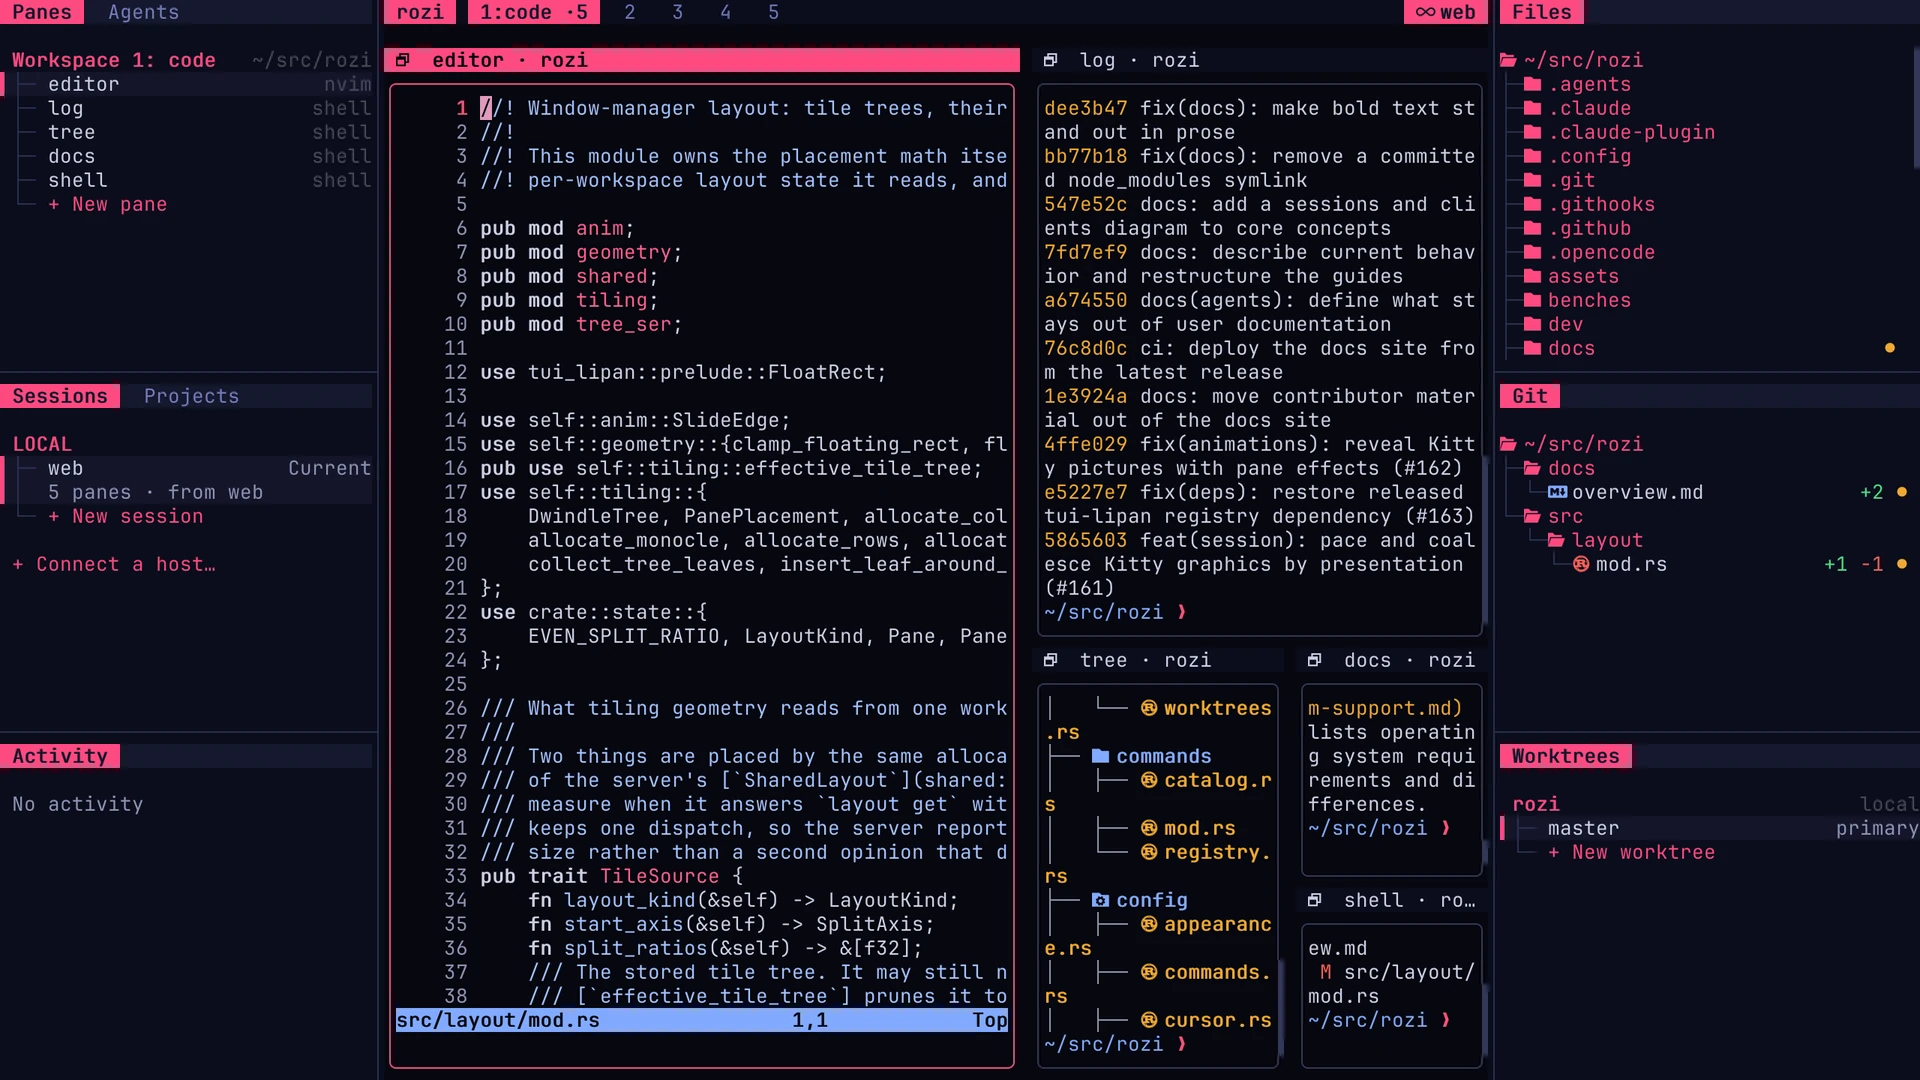
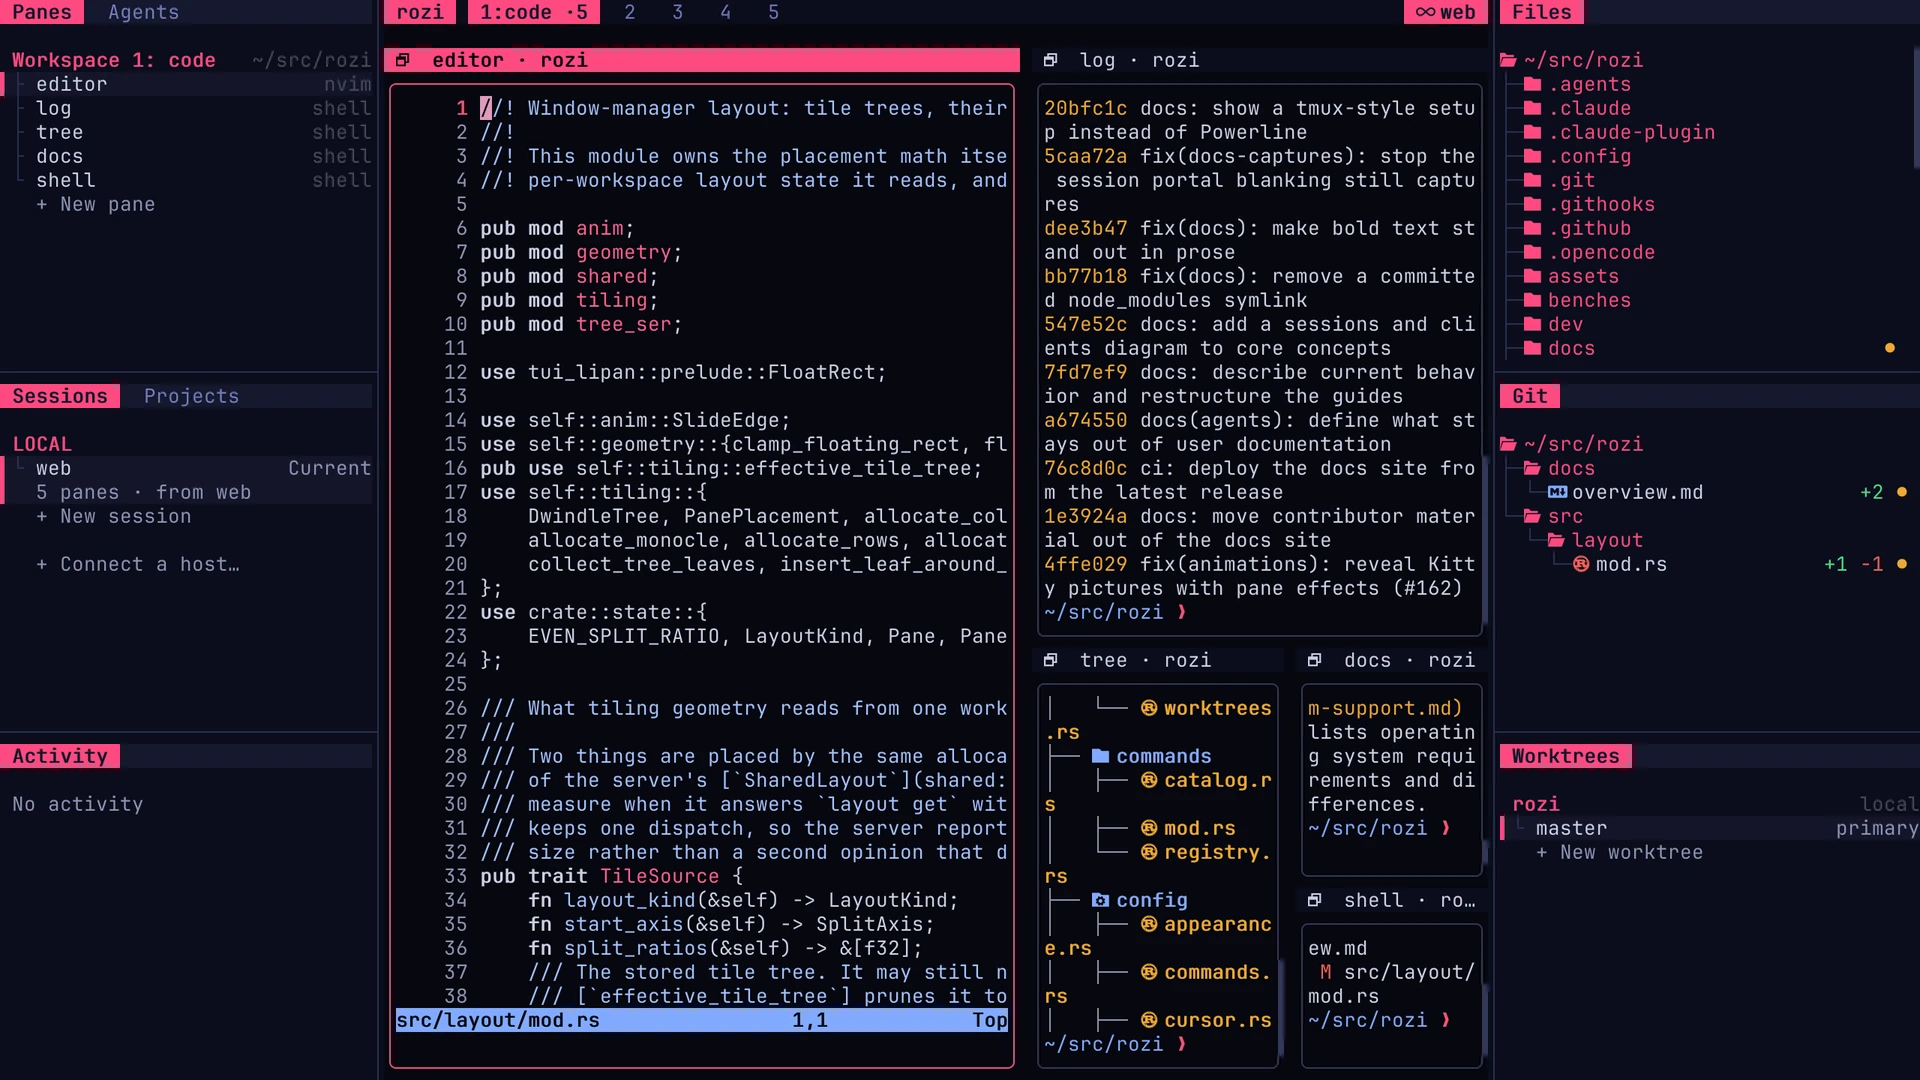
feat(sidebar): compact tree branches and muted action rows
A leaf's branch meets its label directly, `├ editor` rather than
`├─ editor`, except at or just beneath a depth where a row folds, where
leaves keep the arrow column so labels line up and a fold's children
read a level deeper.

New pane, New session, New worktree, and Connect a host now share one
action row: muted, with its `+` in the label column, after its group's
tree rather than in it, so the group's `└` closes on its last real row
and the action no longer competes with the headings.

diff --git a/tests/suites/sidebar/sidebar_sessions_smoke.rs b/tests/suites/sidebar/sidebar_sessions_smoke.rs
@@ -147,14 +147,14 @@ fn sessions_sidebar_renders_group_and_child_hierarchy() {
 
             // Each host is a heading, and its sessions hang from it.
             assert!(lines[row("LOCAL")].starts_with(" LOCAL"));
-            assert!(lines[row("▍├─ dev")].starts_with("▍├─ dev"));
-            assert!(lines[row("▍├─ dev")].contains(" 2"));
-            assert!(lines[row("▍├─ dev")].contains("Current"));
-            assert!(lines[row("2 panes")].starts_with("▍│  2 panes"));
+            assert!(lines[row("▍├ dev")].starts_with("▍├ dev"));
+            assert!(lines[row("▍├ dev")].contains(" 2"));
+            assert!(lines[row("▍├ dev")].contains("Current"));
+            assert!(lines[row("2 panes")].starts_with("▍│ 2 panes"));
             assert!(!lines[row("2 panes")].contains("shared"));
-            assert!(lines[row("test")].starts_with(" ├─ test"));
+            assert!(lines[row("test")].starts_with(" └ test"));
             assert!(lines[row("test")].contains("Running"));
-            assert!(lines[row("3 panes")].starts_with(" │  3 panes"));
+            assert!(lines[row("3 panes")].starts_with("   3 panes"));
 
             let new_session_rows: Vec<_> = lines
                 .iter()
@@ -164,7 +164,7 @@ fn sessions_sidebar_renders_group_and_child_hierarchy() {
             assert!(
                 new_session_rows
                     .iter()
-                    .all(|line| line.starts_with(" └─ + New session"))
+                    .all(|line| line.starts_with("   + New session"))
             );
 
             // A connected host is one line: the badge says it is connected, and disconnecting is
@@ -176,17 +176,17 @@ fn sessions_sidebar_renders_group_and_child_hierarchy() {
                 "no second line under a connected host: {:?}",
                 lines[linvm + 1]
             );
-            assert!(lines[linvm + 1].starts_with(" ├─ dev"));
-            assert!(lines[linvm + 2].starts_with(" │  4 panes"));
+            assert!(lines[linvm + 1].starts_with(" └ dev"));
+            assert!(lines[linvm + 2].starts_with("   4 panes"));
 
             // An offline host with nothing to explain spends its free second line on the standing
             // invitation, rather than hiding it under the pointer.
             let winvm = row("WINVM");
             assert!(lines[winvm].starts_with(" WINVM"));
             assert!(lines[winvm + 1].starts_with(" Click to connect"));
-            assert!(lines[winvm + 2].starts_with(" └─ dev"));
-            assert!(lines[winvm + 3].starts_with("    2 panes · last seen"));
-            assert!(lines[row("+ Connect a host")].starts_with(" + Connect a host"));
+            assert!(lines[winvm + 2].starts_with(" └ dev"));
+            assert!(lines[winvm + 3].starts_with("   2 panes · last seen"));
+            assert!(lines[row("+ Connect a host")].starts_with("   + Connect a host"));
 
             let accent = backend
                 .state()
@@ -206,8 +206,10 @@ fn sessions_sidebar_renders_group_and_child_hierarchy() {
             // The cached session under an offline host, and its detail: both muted, so a memory of
             // a session never reads like a live one.
             assert_eq!(frame.cell(1, (winvm + 1) as u16).fg, muted);
-            assert_eq!(frame.cell(4, (winvm + 2) as u16).fg, muted);
-            assert_eq!(frame.cell(4, (winvm + 3) as u16).fg, muted);
+            assert_eq!(frame.cell(3, (winvm + 2) as u16).fg, muted);
+            assert_eq!(frame.cell(3, (winvm + 3) as u16).fg, muted);
+            // Actions follow their group's tree in the label column, muted beside the headings.
+            assert_eq!(frame.cell(3, row("+ Connect a host") as u16).fg, muted);
         })
         .expect("spawn Sessions sidebar smoke thread")
         .join()
@@ -249,7 +251,7 @@ fn sessions_sidebar_omits_nerd_glyphs_when_nerd_icons_are_off() {
                 .collect();
             let row = lines
                 .iter()
-                .position(|line| line.contains("▍├─ dev"))
+                .position(|line| line.contains("▍└ dev"))
                 .unwrap_or_else(|| panic!("current session should be visible: {lines:#?}"));
             assert!(
                 lines[row].contains("⋈ 2"),

diff --git a/src/view/sidebar/tree_rows.rs b/src/view/sidebar/tree_rows.rs
@@ -190,7 +190,12 @@ pub(super) fn tab(
             )
         })
         .collect::<Vec<_>>();
-    let mut tree = Tree::forest(nested_nodes(&nodes, &mut 0, 0))
+    let folding: Vec<usize> = nodes
+        .iter()
+        .filter(|(_, shape, _)| matches!(shape, Shape::Collapsible { .. }))
+        .map(|(depth, _, _)| *depth)
+        .collect();
+    let mut tree = Tree::forest(nested_nodes(&nodes, &mut 0, 0, &folding))
         .controlled_expansion(true)
         .toggle_on_activate(false)
         .indent_style(IndentStyle::Branch)
@@ -261,7 +266,7 @@ fn node(
     selected: bool,
     index: usize,
     row: SidebarRow,
-) -> (usize, TreeNode) {
+) -> (usize, Shape, TreeNode) {
     let depth = row.depth;
     let shape = row.shape;
     let arrow_style = row.arrow_style;
@@ -304,21 +309,34 @@ fn node(
     if let Some(style) = arrow_style {
         node = node.arrow_style(style);
     }
-    (depth, node.key(key))
+    (depth, shape, node.key(key))
 }
 
 /// The model projects only visible rows. Retain its order and depth; controlled expansion keeps
 /// the widget synchronized with the identity-keyed expansion choices held by the application.
-fn nested_nodes(nodes: &[(usize, TreeNode)], index: &mut usize, depth: usize) -> Vec<TreeNode> {
+///
+/// Leaves keep the arrow column only at a depth where some row folds, so every label at that depth
+/// lines up across groups too, or just beneath one, so its children read a level deeper than its
+/// label. Elsewhere the branch meets the label directly: `├ editor`, not `├─ editor`.
+fn nested_nodes(
+    nodes: &[(usize, Shape, TreeNode)],
+    index: &mut usize,
+    depth: usize,
+    folding: &[usize],
+) -> Vec<TreeNode> {
     let mut siblings = Vec::new();
-    while let Some((node_depth, node)) = nodes.get(*index) {
+    while let Some((node_depth, shape, node)) = nodes.get(*index) {
         if *node_depth < depth {
             break;
         }
         let mut node = node.clone();
         *index += 1;
-        if nodes.get(*index).is_some_and(|(next, _)| *next > depth) {
-            node = node.children(nested_nodes(nodes, index, depth + 1));
+        if nodes.get(*index).is_some_and(|(next, _, _)| *next > depth) {
+            node = node.children(nested_nodes(nodes, index, depth + 1, folding));
+        }
+        let beneath_fold = depth > 0 && folding.contains(&(depth - 1));
+        if *shape == Shape::Leaf && !folding.contains(&depth) && !beneath_fold {
+            node = node.show_arrow(false);
         }
         siblings.push(node);
     }

diff --git a/src/view/sidebar/sessions.rs b/src/view/sidebar/sessions.rs
@@ -201,23 +201,6 @@ fn empty_row(state: &State, text: &str) -> SidebarRow {
     )
 }
 
-/// A child-level "＋ …" action row within a session group.
-fn session_action_row(state: &State, label: &str, target: RowTarget) -> SidebarRow {
-    let style = super::super::fg_only(&state.theme.accent);
-    SidebarRow::item(Row::new(format!("+ {label}")).title_style(style), target)
-}
-
-/// A group-level "＋ …" action row (connect a host).
-fn action_row(state: &State, label: &str, target: RowTarget) -> SidebarRow {
-    let style = super::super::fg_only(&state.theme.accent);
-    SidebarRow::item(
-        Row::new(label)
-            .glyph(Text::new("+").style(style))
-            .title_style(style),
-        target,
-    )
-}
-
 /// The Sessions tab as a tree: each host is a heading, with its sessions and the way to start
 /// another beneath it.
 pub(super) fn sessions_rows(state: &State) -> Vec<SidebarRow> {
@@ -246,9 +229,7 @@ pub(super) fn sessions_rows(state: &State) -> Vec<SidebarRow> {
         );
     }
     rows.push(
-        session_action_row(state, "New session", RowTarget::NewSession(None))
-            .at(1)
-            .keyed("new:local"),
+        SidebarRow::action(state, "New session", RowTarget::NewSession(None)).keyed("new:local"),
     );
 
     // One group per known remote host — configured, recently used, or currently attached — so a
@@ -298,12 +279,11 @@ pub(super) fn sessions_rows(state: &State) -> Vec<SidebarRow> {
                     }
                 }
                 rows.push(
-                    session_action_row(
+                    SidebarRow::action(
                         state,
                         "New session",
                         RowTarget::NewSession(Some(host.target.clone())),
                     )
-                    .at(1)
                     .keyed(format!("new:{id}")),
                 );
             }
@@ -328,9 +308,7 @@ pub(super) fn sessions_rows(state: &State) -> Vec<SidebarRow> {
     // recent can still be reached without knowing the Ctrl+R binding.
     rows.push(SidebarRow::spacer().keyed("spacer:connect"));
     rows.push(
-        action_row(state, "Connect a host…", RowTarget::ConnectHost)
-            .shape(Shape::Flush)
-            .keyed("connect"),
+        SidebarRow::action(state, "Connect a host…", RowTarget::ConnectHost).keyed("connect"),
     );
 
     rows

diff --git a/src/view/sidebar/row.rs b/src/view/sidebar/row.rs
@@ -19,7 +19,8 @@ pub(crate) enum RowKind {
 /// How a row takes part in its tab's tree.
 #[derive(Clone, Copy, Debug, Default, PartialEq, Eq)]
 pub(crate) enum Shape {
-    /// A row with nothing beneath it. It keeps the arrow column, so it lines up with its siblings.
+    /// A row with nothing beneath it. It keeps the arrow column only at or just below a depth
+    /// where some row folds, so it lines up with that row or reads as nested in it.
     #[default]
     Leaf,
     /// A top-level row outside any group, such as an action or a spacer: no arrow column.
@@ -58,6 +59,16 @@ impl SidebarRow {
             arrow_style: None,
             expansion: None,
         }
+    }
+
+    /// A way to add something: a pane, a session, a host. It follows its group's tree rather than
+    /// joining it, muted, so it neither reads as one of the group's rows nor competes with the
+    /// headings. A blank glyph cell puts its `+` in the label column of the rows above it.
+    pub(super) fn action(state: &State, label: &str, target: RowTarget) -> Self {
+        let row = Row::new(format!("+ {label}"))
+            .glyph(Text::new(" ").height(Length::Px(1)))
+            .title_style(super::super::fg_only(&state.theme.muted));
+        Self::item(row, target).shape(Shape::Flush)
     }
 
     /// A top-level row outside any group, with no arrow column.

diff --git a/src/view/sidebar/panes.rs b/src/view/sidebar/panes.rs
@@ -54,9 +54,14 @@ pub(super) fn panes_rows(state: &State) -> Vec<SidebarRow> {
             );
         }
         rows.push(
-            new_pane_row(state, workspace_index)
-                .at(1)
-                .keyed(format!("new-pane:{workspace_index}")),
+            SidebarRow::action(
+                state,
+                "New pane",
+                RowTarget::NewPane {
+                    workspace: workspace_index,
+                },
+            )
+            .keyed(format!("new-pane:{workspace_index}")),
         );
     }
     rows
@@ -100,15 +105,6 @@ fn place<'a>(location: Option<&'a str>, shared: Option<&str>) -> Option<&'a str>
         .and_then(|rest| rest.strip_prefix('/'))
         .filter(|rest| !rest.is_empty());
     Some(below.unwrap_or(location))
-}
-
-/// A child-level "+ New pane" action row, matching the Sessions tab's "+ New session".
-fn new_pane_row(state: &State, workspace: usize) -> SidebarRow {
-    let style = super::super::fg_only(&state.theme.accent);
-    SidebarRow::item(
-        Row::new("+ New pane").title_style(style),
-        RowTarget::NewPane { workspace },
-    )
 }
 
 /// Sidebar order follows the authoritative tiling tree, while floating panes retain their

diff --git a/src/view/sidebar/worktrees.rs b/src/view/sidebar/worktrees.rs
@@ -48,12 +48,9 @@ pub(super) fn worktrees_rows(state: &State) -> Vec<SidebarRow> {
                     .at(1)
                     .keyed(format!("message:{index}"))
             }
-            WorktreeTabItem::New => SidebarRow::item(
-                Row::new("+ New worktree").title_style(accent),
-                RowTarget::NewWorktree,
-            )
-            .at(1)
-            .keyed("new"),
+            WorktreeTabItem::New => {
+                SidebarRow::action(state, "New worktree", RowTarget::NewWorktree).keyed("new")
+            }
         })
         .collect()
 }
